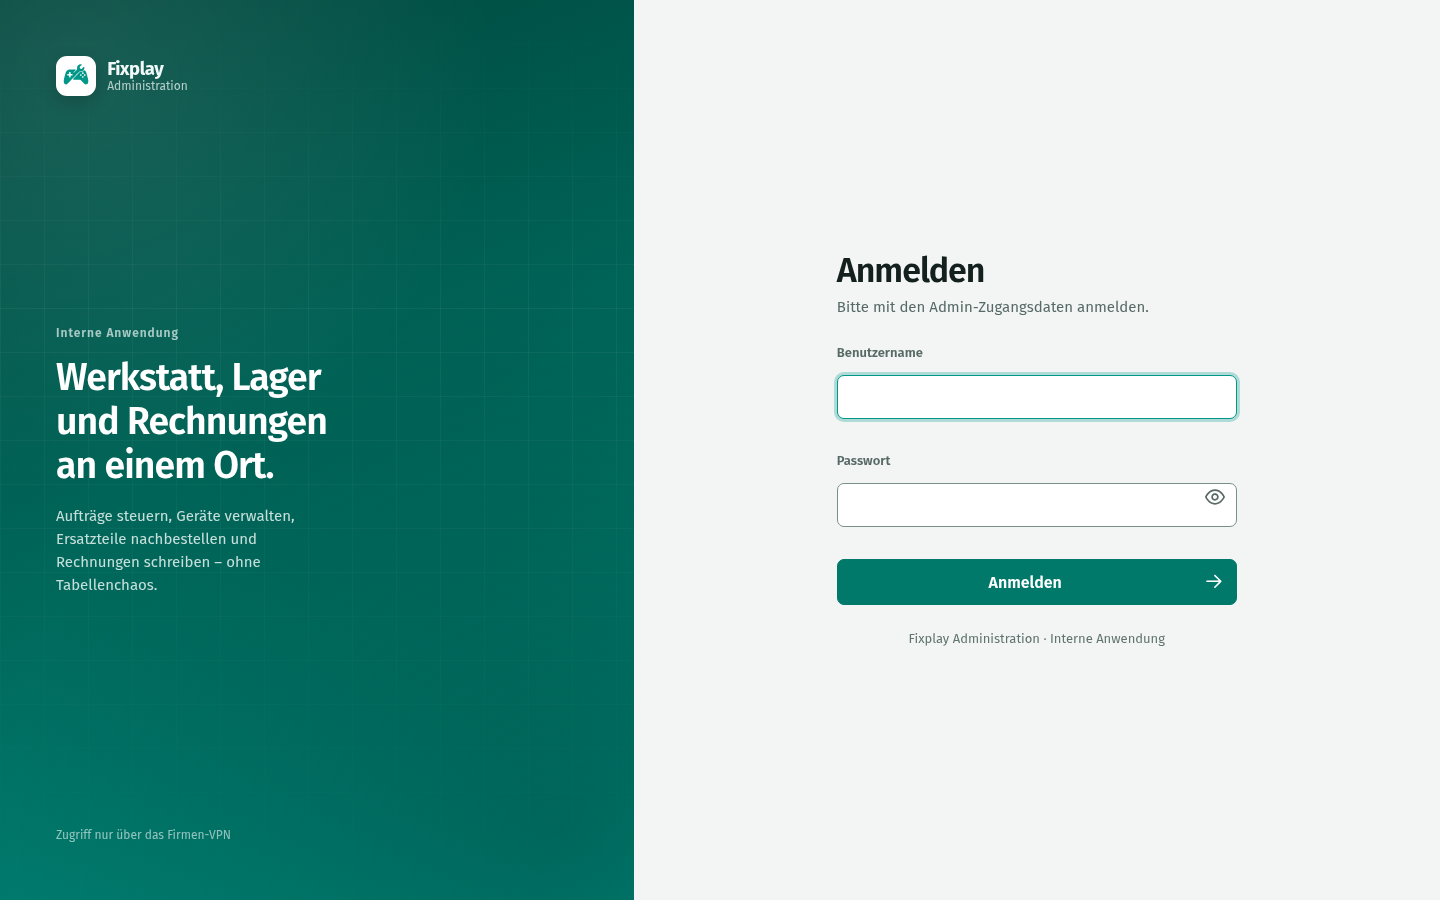
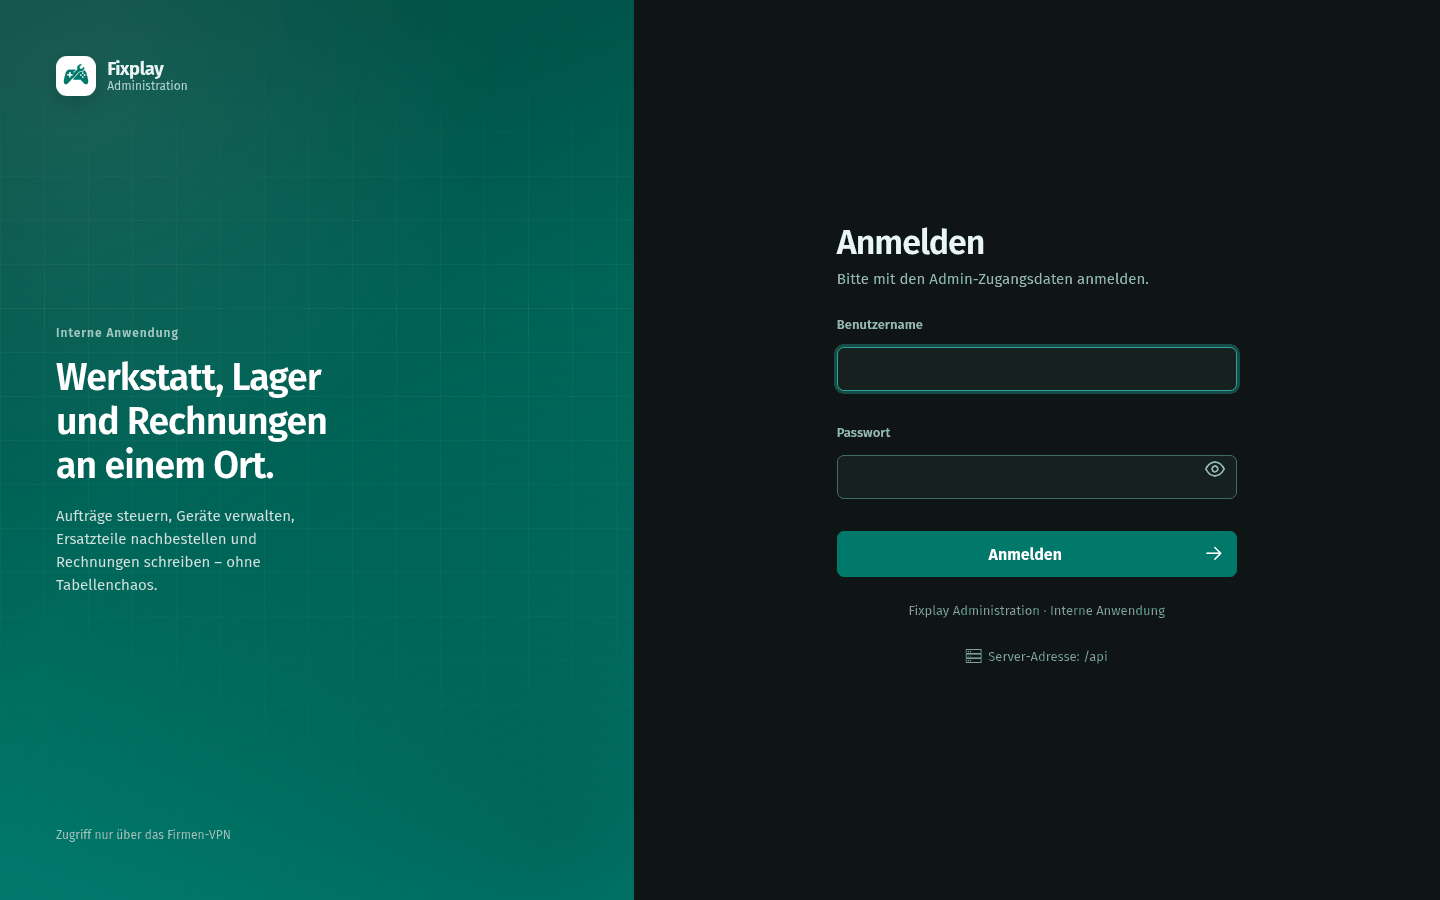
docs: Screenshots im Dark Mode erneuern und Partner-Portal ergänzen
Alle Aufnahmen vom aktuellen Stand (10.11.2026) und durchgängig im
Dark Mode:

- home.png: Startseite fixplay.de mit Kampagnen-Banner
- services.png -> service-finder.png: die Leistungen-Seite existiert
  nicht mehr; gezeigt wird der Service-Finder der Preisanfrage
- diagnosetool.png: Startansicht ohne Onboarding-Overlay
- admin-login.png: Anmeldung mit erzwungenem App-Theme "dark"
  (die App startet sonst im hellen Theme)
- partners.png: neu, Partner-Portal-Anmeldung

README: Bildunterschriften an den neuen Inhalt angepasst, Partner-Portal
in der Übersicht aufgenommen, Kampagnen-Banner und eBay-Angebote als
belegte Funktionen ergänzt.

diff --git a/profile/README.md b/profile/README.md
@@ -26,9 +26,11 @@ Werkstatt-Alltag — von der öffentlichen Website über die Auftragsabwicklung 
 Backoffice bis zur Hardware-Diagnose auf dem Werktisch:
 
 - **Kundenshop und Reparaturannahme** auf [fixplay.de](https://fixplay.de):
-  Preisanfrage, Auftrag, Versand, Zahlung und Statusverfolgung.
-- **Backoffice** für Werkstatt, Lager und Rechnungen — im Browser und als
-  Android-App, im Produktivbetrieb nur über VPN erreichbar.
+  Preisanfrage, Auftrag, Versand, Zahlung, Statusverfolgung und aktuelle
+  Kampagnen-Banner.
+- **Backoffice** für Werkstatt, Lager, Rechnungen und eBay-Angebote (anlegen,
+  veröffentlichen, beenden) — im Browser und als Android-App, im
+  Produktivbetrieb nur über VPN erreichbar.
 - **Partner-Portal** für Sucher und Vertrieb mit eigenen Rechten und
   Sichtbarkeiten.
 - **diagnoseTool** für NOR-Flash, UART, I²C und Controller-Diagnose direkt an
@@ -40,11 +42,11 @@ Backoffice bis zur Hardware-Diagnose auf dem Werktisch:
   <tr>
     <td width="50%" align="center">
       <img src="assets/screenshots/home.png" alt="Fixplay Startseite"><br>
-      <sub><strong>fixplay.de</strong> — Reparaturannahme mit Live-Preisberatung</sub>
+      <sub><strong>fixplay.de</strong> — Reparatur, Refurbished-Shop und aktuelle Kampagnen</sub>
     </td>
     <td width="50%" align="center">
-      <img src="assets/screenshots/services.png" alt="Leistungen und Preise"><br>
-      <sub><strong>Leistungen</strong> — Plattform, Fehlerbild und Preis auf einen Blick</sub>
+      <img src="assets/screenshots/service-finder.png" alt="Preisanfrage im Service-Finder"><br>
+      <sub><strong>Preisanfrage</strong> — in vier Schritten zu Marke, Gerät und Preis</sub>
     </td>
   </tr>
   <tr>
@@ -55,6 +57,12 @@ Backoffice bis zur Hardware-Diagnose auf dem Werktisch:
     <td width="50%" align="center">
       <img src="assets/screenshots/admin-login.png" alt="Fixplay Administration"><br>
       <sub><strong>Administration</strong> — Werkstatt, Lager und Rechnungen (VPN)</sub>
+    </td>
+  </tr>
+  <tr>
+    <td colspan="2" align="center">
+      <img src="assets/screenshots/partners.png" alt="Fixplay Partner-Portal"><br>
+      <sub><strong>Partner-Portal</strong> — Suchaufträge, gemeldete Deals und Richtpreise; Zugang nur für freigegebene Partner</sub>
     </td>
   </tr>
 </table>
